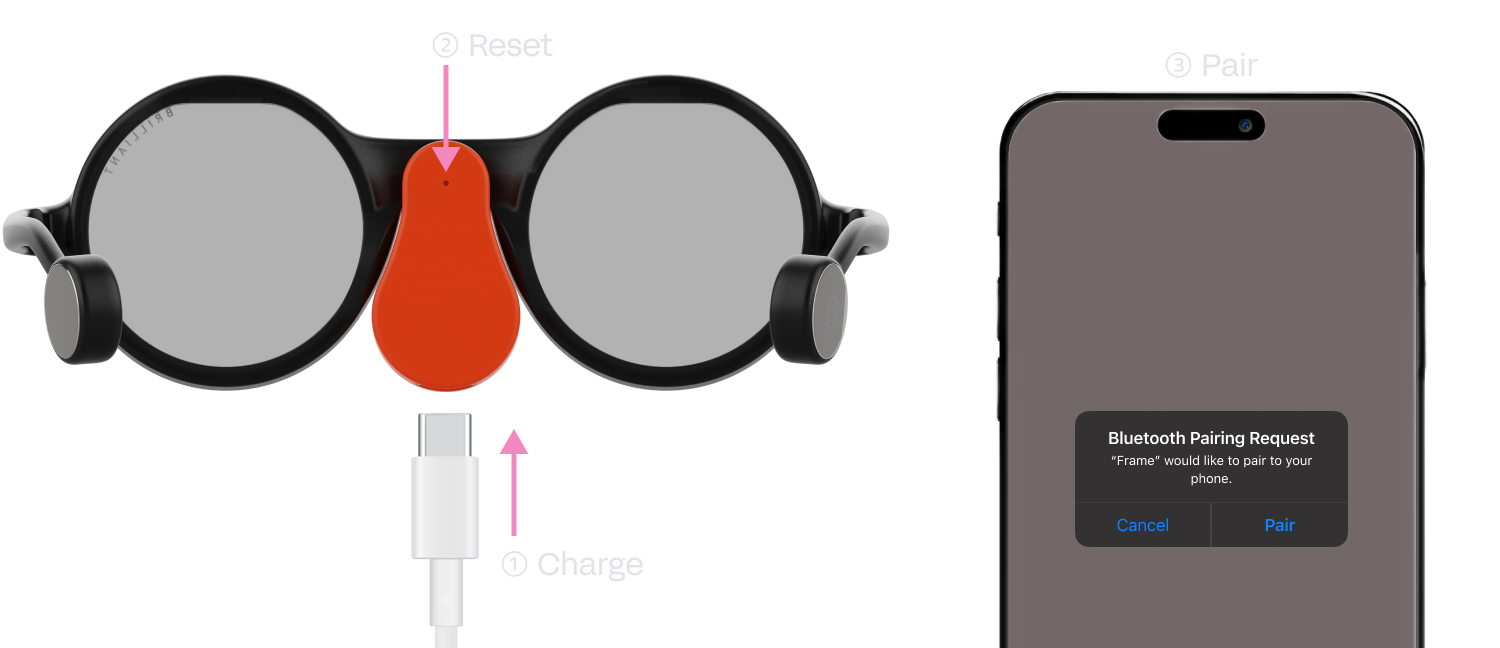
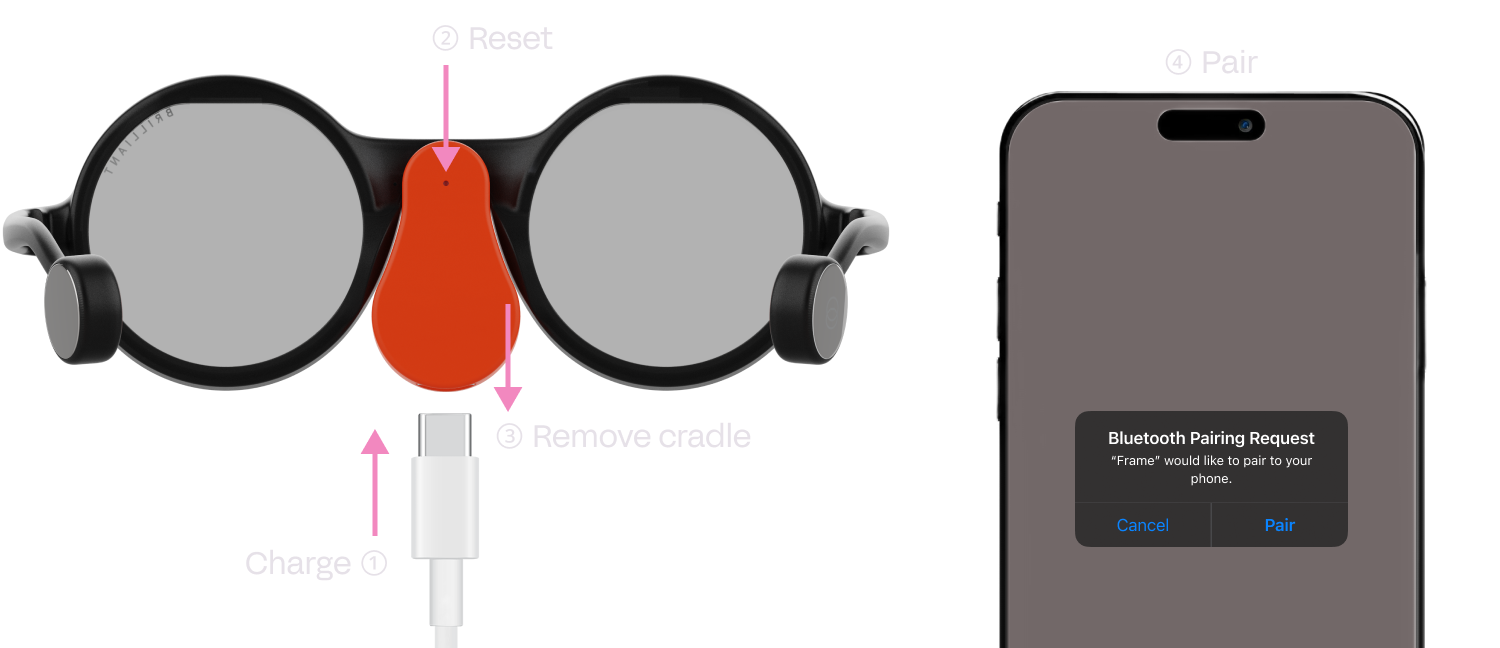
Corrected pairing diagram

diff --git a/frame/frame.md b/frame/frame.md
@@ -28,7 +28,7 @@ Choosing the correct nose bridge adaptor is key to seeing the full display area.
 
 ## How do I connect to my Frame?
 
-Ensure your Frame is charged, and then with the charging cradle connected, use a sim card tool to click the reset button. Then from any Frame compatible app, such as Noa, press connect, and tap pair.
+Ensure your Frame is charged, and then with the charging cradle connected, use a sim card tool to click the reset button. Then remove the dock, and from any Frame compatible app, such as Noa, press connect, and then tap pair.
 
 ![Pairing Frame to Noa](/frame/images/frame-pairing-diagram.png)
 
